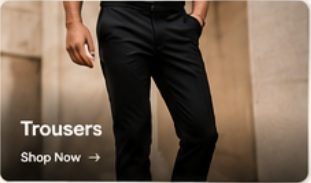
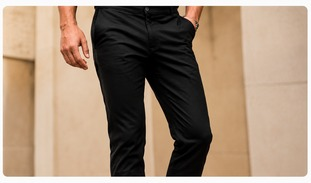
Add files via upload

diff --git a/app.js b/app.js
@@ -172,9 +172,31 @@ function renderWishlist(){
 function openWishlist(){openModal("wishlistModal");renderWishlist()}
 function showProduct(id){
  const p=products.find(x=>String(x.id)===String(id));if(!p)return;
- $("productDetailContent").innerHTML=`<div class="product-detail"><img src="${esc(p.image_url||"")}" alt="${esc(p.name)}"><div><p class="eyebrow">${esc(p.category)}</p><h2>${esc(p.name)}</h2><div class="product-detail-price">${productPrice(p)<Number(p.price)?`<del>${money(p.price)}</del> <strong>${money(productPrice(p))}</strong>`:money(p.price)}</div><p class="product-detail-description">${esc(p.description||"A considered NEXURE&LAND essential.")}</p><span class="stock-label">${p.stock} available</span><div class="detail-options"><label>Size<select id="detailSize"><option>S</option><option selected>M</option><option>L</option><option>XL</option><option>XXL</option></select></label><label>Color<select id="detailColor"><option>Black</option><option>White</option><option>Navy</option><option>Beige</option><option>Olive</option></select></label><label>Quantity<select id="detailQty">${Array.from({length:Math.max(1,Math.min(10,Number(p.stock)||1))},(_,i)=>`<option>${i+1}</option>`).join("")}</select></label></div><div class="detail-actions"><button class="button button-dark" id="detailAdd" type="button" ${Number(p.stock)<=0?"disabled":""}>Add to bag</button><button class="button button-outline" id="detailWish" type="button">${wishlist.some(x=>String(x)===String(p.id))?"♥ Saved":"♡ Save"}</button></div><p class="small-note">Sign in to save your bag securely to your account.</p></div></div>`;
- const img=$("productDetailContent").querySelector("img");img.onerror=()=>{img.onerror=null;img.src="https://images.unsplash.com/photo-1483985988355-763728e1935b?auto=format&fit=crop&w=700&q=80"};
+ $("productDetailContent").innerHTML=`<div class="product-detail"><img src="${esc(p.image_url||"")}" alt="${esc(p.name)}"><div><p class="eyebrow">${esc(p.category)}</p><h2>${esc(p.name)}</h2><div class="product-detail-price">${productPrice(p)<Number(p.price)?`<del>${money(p.price)}</del> <strong>${money(productPrice(p))}</strong>`:money(productPrice(p))}</div><p class="product-detail-description">${esc(p.description||"A considered NEXURE&LAND essential.")}</p><span class="stock-label">${p.stock} available</span><div class="detail-options"><label>Size<select id="detailSize"><option>S</option><option selected>M</option><option>L</option><option>XL</option><option>XXL</option></select></label><label>Color<select id="detailColor"><option>Black</option><option>White</option><option>Navy</option><option>Beige</option><option>Olive</option></select></label><label>Quantity<select id="detailQty">${Array.from({length:Math.max(1,Math.min(10,Number(p.stock)||1))},(_,i)=>`<option>${i+1}</option>`).join("")}</select></label></div><div class="detail-actions"><button class="button button-dark" id="detailAdd" type="button" ${Number(p.stock)<=0?"disabled":""}>Add to bag</button><button class="button button-outline" id="detailWish" type="button">${wishlist.some(x=>String(x)===String(p.id))?"♥ Saved":"♡ Save"}</button></div><p class="small-note">Sign in to save your bag securely to your account.</p></div></div><section class="product-reviews" id="productReviews" data-product-id="${esc(p.id)}"><div class="reviews-heading"><div><p class="eyebrow">CUSTOMER FEEDBACK</p><h3>Customer Reviews</h3></div><span class="reviews-summary" id="reviewsSummary">Loading…</span></div><div id="reviewsList" class="reviews-list"><p class="small-note">Loading customer reviews…</p></div><div id="reviewFormWrap"></div></section>`;
+ const img=$("productDetailContent").querySelector(".product-detail>img");img.onerror=()=>{img.onerror=null;img.src="https://images.unsplash.com/photo-1483985988355-763728e1935b?auto=format&fit=crop&w=700&q=80"};
  openModal("productModal");$("detailAdd").onclick=()=>{addToCart(p.id,$("detailSize").value,$("detailColor").value,Number($("detailQty").value));closeAll()};$("detailWish").onclick=()=>{toggleWishlist(p.id);$("detailWish").textContent=wishlist.some(x=>String(x)===String(p.id))?"♥ Saved":"♡ Save"};
+ loadProductReviews(p.id);
+}
+async function loadProductReviews(productId){
+ const list=$("reviewsList"),summary=$("reviewsSummary"),formWrap=$("reviewFormWrap");if(!list||!summary||!formWrap)return;
+ try{
+  if(!supabaseClient)throw new Error("Reviews are temporarily unavailable.");
+  const {data,error}=await supabaseClient.from("product_reviews").select("id,customer_name,rating,review_text,created_at").eq("product_id",productId).order("created_at",{ascending:false});
+  if(error)throw error;
+  const rows=data||[],avg=rows.length?rows.reduce((sum,r)=>sum+Number(r.rating),0)/rows.length:0;
+  summary.textContent=rows.length?`★ ${avg.toFixed(1)} / 5 · ${rows.length} ${rows.length===1?"review":"reviews"}`:"No reviews yet";
+  list.innerHTML=rows.length?rows.map(r=>`<article class="review-card"><div class="review-card-top"><strong>${esc(r.customer_name||"Verified customer")}</strong><span class="review-stars" aria-label="${Number(r.rating)} out of 5 stars">${"★".repeat(Number(r.rating))}${"☆".repeat(5-Number(r.rating))}</span></div><p>${esc(r.review_text)}</p><small>${new Date(r.created_at).toLocaleDateString()} · Verified purchase</small></article>`).join(""):'<p class="small-note">Be the first customer to review this product after your order is delivered.</p>';
+  if(!authUser){formWrap.innerHTML='<div class="review-form-note">Please <button type="button" class="text-link" id="reviewSignIn">sign in</button> to leave a review. Reviews are available after delivery.</div>';$("reviewSignIn").onclick=()=>{closeAll();openCustomer()};return;}
+  const {data:existing,error:existingError}=await supabaseClient.from("product_reviews").select("id,rating,review_text").eq("product_id",productId).eq("user_id",authUser.id).maybeSingle();
+  if(existingError)throw existingError;
+  formWrap.innerHTML=`<form id="productReviewForm" class="review-form"><h4>${existing?"Update your review":"Write a review"}</h4><label>Rating<select name="rating" required><option value="5" ${existing?.rating===5?"selected":""}>★★★★★ — Excellent</option><option value="4" ${existing?.rating===4?"selected":""}>★★★★☆ — Very good</option><option value="3" ${existing?.rating===3?"selected":""}>★★★☆☆ — Good</option><option value="2" ${existing?.rating===2?"selected":""}>★★☆☆☆ — Fair</option><option value="1" ${existing?.rating===1?"selected":""}>★☆☆☆☆ — Poor</option></select></label><label>Your review<textarea name="review" rows="3" maxlength="1000" required placeholder="Share your experience with this product…">${esc(existing?.review_text||"")}</textarea></label><button class="button button-dark" type="submit">${existing?"Update review":"Submit review"}</button><p class="small-note" id="reviewFormMessage">Only customers with a delivered order can submit a review.</p></form>`;
+  $("productReviewForm").onsubmit=async e=>{
+   e.preventDefault();const f=e.currentTarget,btn=f.querySelector('button[type="submit"]'),rating=Number(f.elements.rating.value),review=f.elements.review.value.trim();if(!review||review.length>1000)return;
+   btn.disabled=true;$("reviewFormMessage").textContent="Submitting your review…";
+   try{const row={product_id:productId,user_id:authUser.id,customer_name:currentCustomer()?.name||"Customer",rating,review_text:review,updated_at:new Date().toISOString()};const {error:saveError}=await supabaseClient.from("product_reviews").upsert(row,{onConflict:"product_id,user_id"});if(saveError)throw saveError;toast("Your review has been saved.");await loadProductReviews(productId);}
+   catch(err){console.error("Product review save failed:",err);$("reviewFormMessage").textContent=err.message?.includes("row-level security")?"Only customers with a delivered order can review this product.":`Could not save review: ${err.message||"Please try again."}`;btn.disabled=false;}
+  };
+ }catch(error){console.error("Product reviews could not load:",error);summary.textContent="Reviews unavailable";list.innerHTML=`<p class="small-note">${esc(error.message||"Could not load reviews. Please try again later.")}</p>`;formWrap.innerHTML="";}
 }
 async function renderCustomerView(view="orders"){
  const host=$("customerView"),c=currentCustomer();if(!host)return;

diff --git a/styles.css b/styles.css
@@ -1263,3 +1263,27 @@ footer{padding:22px 4% 14px;display:grid;grid-template-columns:1.4fr 1fr 1fr 1fr
   .shop-empty-state p{font-size:11px}
   .shop-empty-link{padding:9px 13px;font-size:9px}
 }
+
+/* NEXURE&LAND category range heading */
+.collections .section-heading .category-range{display:block;margin:0 0 5px;color:#987a4e;font:700 9px/1.5 var(--sans);letter-spacing:.12em;text-transform:uppercase;text-align:center}
+.collections .section-heading .category-range span{color:#c39b5d;padding:0 5px}
+@media(max-width:700px){.collections .section-heading .category-range{font-size:7px;letter-spacing:.045em;line-height:1.7;padding:0 6px}.collections .section-heading .category-range span{padding:0 2px}.collections .section-heading h2{font-size:14px}}
+
+/* NEXURE&LAND customer product reviews */
+.product-reviews{margin-top:30px;padding-top:24px;border-top:1px solid var(--line)}
+.reviews-heading{display:flex;justify-content:space-between;align-items:flex-end;gap:16px;margin-bottom:14px}
+.reviews-heading h3{font:26px/1.1 var(--serif);margin:4px 0 0}
+.reviews-summary{font-size:12px;font-weight:700;white-space:nowrap;color:var(--ink)}
+.reviews-list{display:grid;gap:10px}
+.review-card{padding:14px 16px;border:1px solid var(--line);background:#fff}
+.review-card-top{display:flex;justify-content:space-between;gap:12px;align-items:center}
+.review-card-top strong{font-size:13px}.review-stars{color:#a77b27;letter-spacing:2px;white-space:nowrap}
+.review-card p{font-size:13px;line-height:1.65;margin:9px 0;color:var(--ink)}
+.review-card small,.review-form-note,.review-form .small-note{font-size:11px;color:var(--muted)}
+.review-form{display:grid;gap:12px;margin-top:18px;padding:18px;background:#f5f3ef;border:1px solid var(--line)}
+.review-form h4{font:20px/1.2 var(--serif);margin:0}
+.review-form label{display:grid;gap:6px;font-size:12px;font-weight:700}
+.review-form select,.review-form textarea{width:100%;padding:11px;border:1px solid var(--line);background:#fff;color:var(--ink);font:inherit}
+.review-form textarea{resize:vertical;line-height:1.5}
+.review-form .button{justify-self:start}.review-form-note{padding:14px;background:#f5f3ef}
+.review-form-note .text-link{border:0;background:none;text-decoration:underline;cursor:pointer;font:inherit;color:var(--ink)}

diff --git a/index.html b/index.html
@@ -101,12 +101,12 @@
     </section>
 
     <section class="collections section" id="collections">
-      <div class="section-heading"><div><p class="eyebrow"> </p><h2>Shop by Category</h2></div><a class="text-link" href="#shop">Shop all ↗</a></div>
+      <div class="section-heading"><div><p class="category-range">ALL TYPES OF SHOES <span>•</span> ALL TYPES OF PANTS <span>•</span> ALL TYPES OF SHIRTS <span>•</span> ALL TYPES OF HOODIES</p><h2>Shop by Category</h2></div><a class="text-link" href="#shop">Shop all ↗</a></div>
       <div class="collection-grid">
         <button class="collection-card collection-men" data-category="Shirts" aria-label="Hoodies"><span class="collection-number">01</span><span class="collection-label">HOODIES <b>↗</b></span></button>
-        <button class="collection-card collection-casual" data-category="Casual" aria-label="Polos and T-shirts"><span class="collection-number">02</span><span class="collection-label">POLOS & T-SHIRTS <b>↗</b></span></button>
+        <button class="collection-card collection-casual" data-category="Shoes" aria-label="Shoes"><span class="collection-number">02</span><span class="collection-label">SHOES <b>↗</b></span></button>
         <button class="collection-card collection-formal" data-category="Formal" aria-label="Shirts"><span class="collection-number">03</span><span class="collection-label">SHIRTS <b>↗</b></span></button>
-        <button class="collection-card collection-shoes" data-category="Pants" aria-label="Trousers"><span class="collection-number">04</span><span class="collection-label">TROUSERS <b>↗</b></span></button>
+        <button class="collection-card collection-shoes" data-category="Pants" aria-label="Trousers"><span class="collection-number">04</span><span class="collection-label">TROUSER &amp; PANTS <b>↗</b></span></button>
       </div>
     </section>
 
